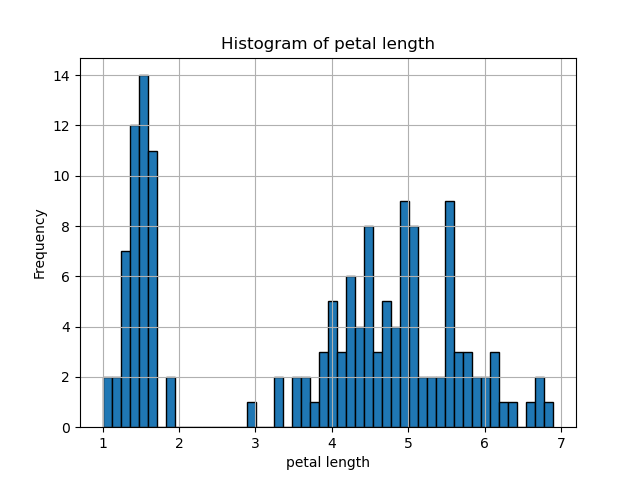
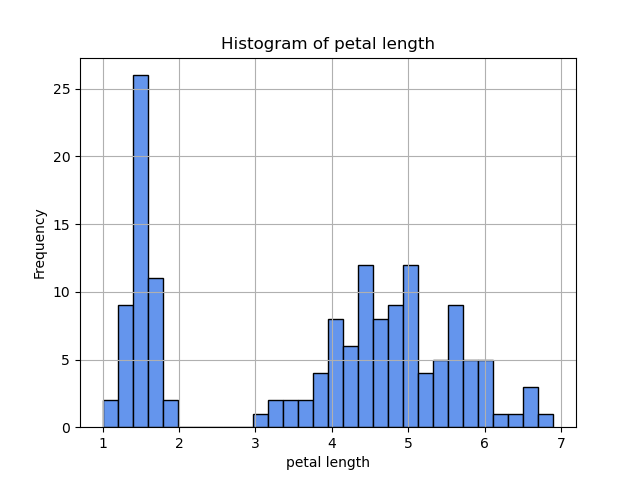
seacrest pairplot scatter exported to png, README updated to include further dependencies

diff --git a/analysis.py b/analysis.py
@@ -1,6 +1,7 @@
-# Pandas and pyplot import - these libraries are used to plot and analyse the data.
+# Pandas, matplotlib, and seaborn imported - these libraries are used to plot and manipulate the data more easily.
 import pandas as pd
 import matplotlib.pyplot as plt
+import seaborn as sns
 
 # Loading the Iris dataset directly from the source github repository and assigning to variable df
 df = pd.read_csv('https://raw.githubusercontent.com/plotly/datasets/master/iris-data.csv')
@@ -23,7 +24,7 @@ for column in df.columns[:-1]:
     # Plots each loop  
     plt.figure()
     # Formatting of histogram
-    df[column].hist(bins=50, edgecolor='black')
+    df[column].hist(bins=30, edgecolor='black', color='cornflowerblue')
     # Using string literals to apply current column in naming convention.
     plt.title(f'Histogram of {column}')
     plt.xlabel(column)
@@ -31,3 +32,8 @@ for column in df.columns[:-1]:
     plt.savefig(f'{column}_histogram.png')
     # Closing to avoid issues with overlap or memory issues.
     plt.close()
+
+# pairplot_scatter.png output - Seaborn includes a built in pair method for plotting, added to dependencies.
+sns.pairplot(df, hue='class', markers=['o', 's', 'D'])
+plt.savefig('pairplot_scatter.png')
+plt.close()

diff --git a/README.md b/README.md
@@ -3,28 +3,17 @@ Programming and Scripting - Spring semester 2024 Project
 
 Summary
 
-The Iris data set is a classical data set used in machine learning, popularised by Ronald A. Fisher in 1936. It is sometimes referred to as the Anderson's dataset as it was botanist Edgar Anderson who originally collected the data on which the Fisher set is derived.
-It includes 150 records of iris flowers, each having four features and a class (species). The features are as follows:
-
-sepal length in centimetre.
-sepal width in centimetre.
-petal length in centimetre.
-petal width in centimetre.
-
-The iris flowers are also classified by species into three types each represented exactly 50 times. The species are as follows:
-
-Iris Setosa.
-Iris Versicolor.
-Iris Virginica.
-
-The primary objective of this dataset is to organise the species of Iris by petal and sepal dimensions.
+The Iris data set is a classical data set used in machine learning, popularised by Ronald A. Fisher in 1936. It is sometimes referred to as the Anderson's dataset as it was botanist Edgar Anderson who originally collected the data. 
+It includes 150 records of iris flowers with four features: sepal length, sepal width, petal length, and petal width. The iris flowers are also classified by species into three types: Iris Setosa, Iris Versicolor, and Iris Virginica.
 
 Dependencies
 
-Python
-Pandas
-Matplotlib
 
-Script explanation and outputs
 
-Once the above dependencies have been installed, navigate to the containing directory and run 'python analysis.py' in your terminal, this should produce a statistical summary of the dataset in a text file, a histogram for EACH variable as a PNG, and a scatter plot for EACH PAIR of variables.
+References
+
+matplotlib colors - https://matplotlib.org/stable/gallery/color/named_colors.html
+
+String Literals for histogram naming- https://baalkikhaal.github.io/2021/03/05/Handling-string-literals-in-matplotlib.html
+
+seaborn.pairplot - https://seaborn.pydata.org/generated/seaborn.pairplot.html
